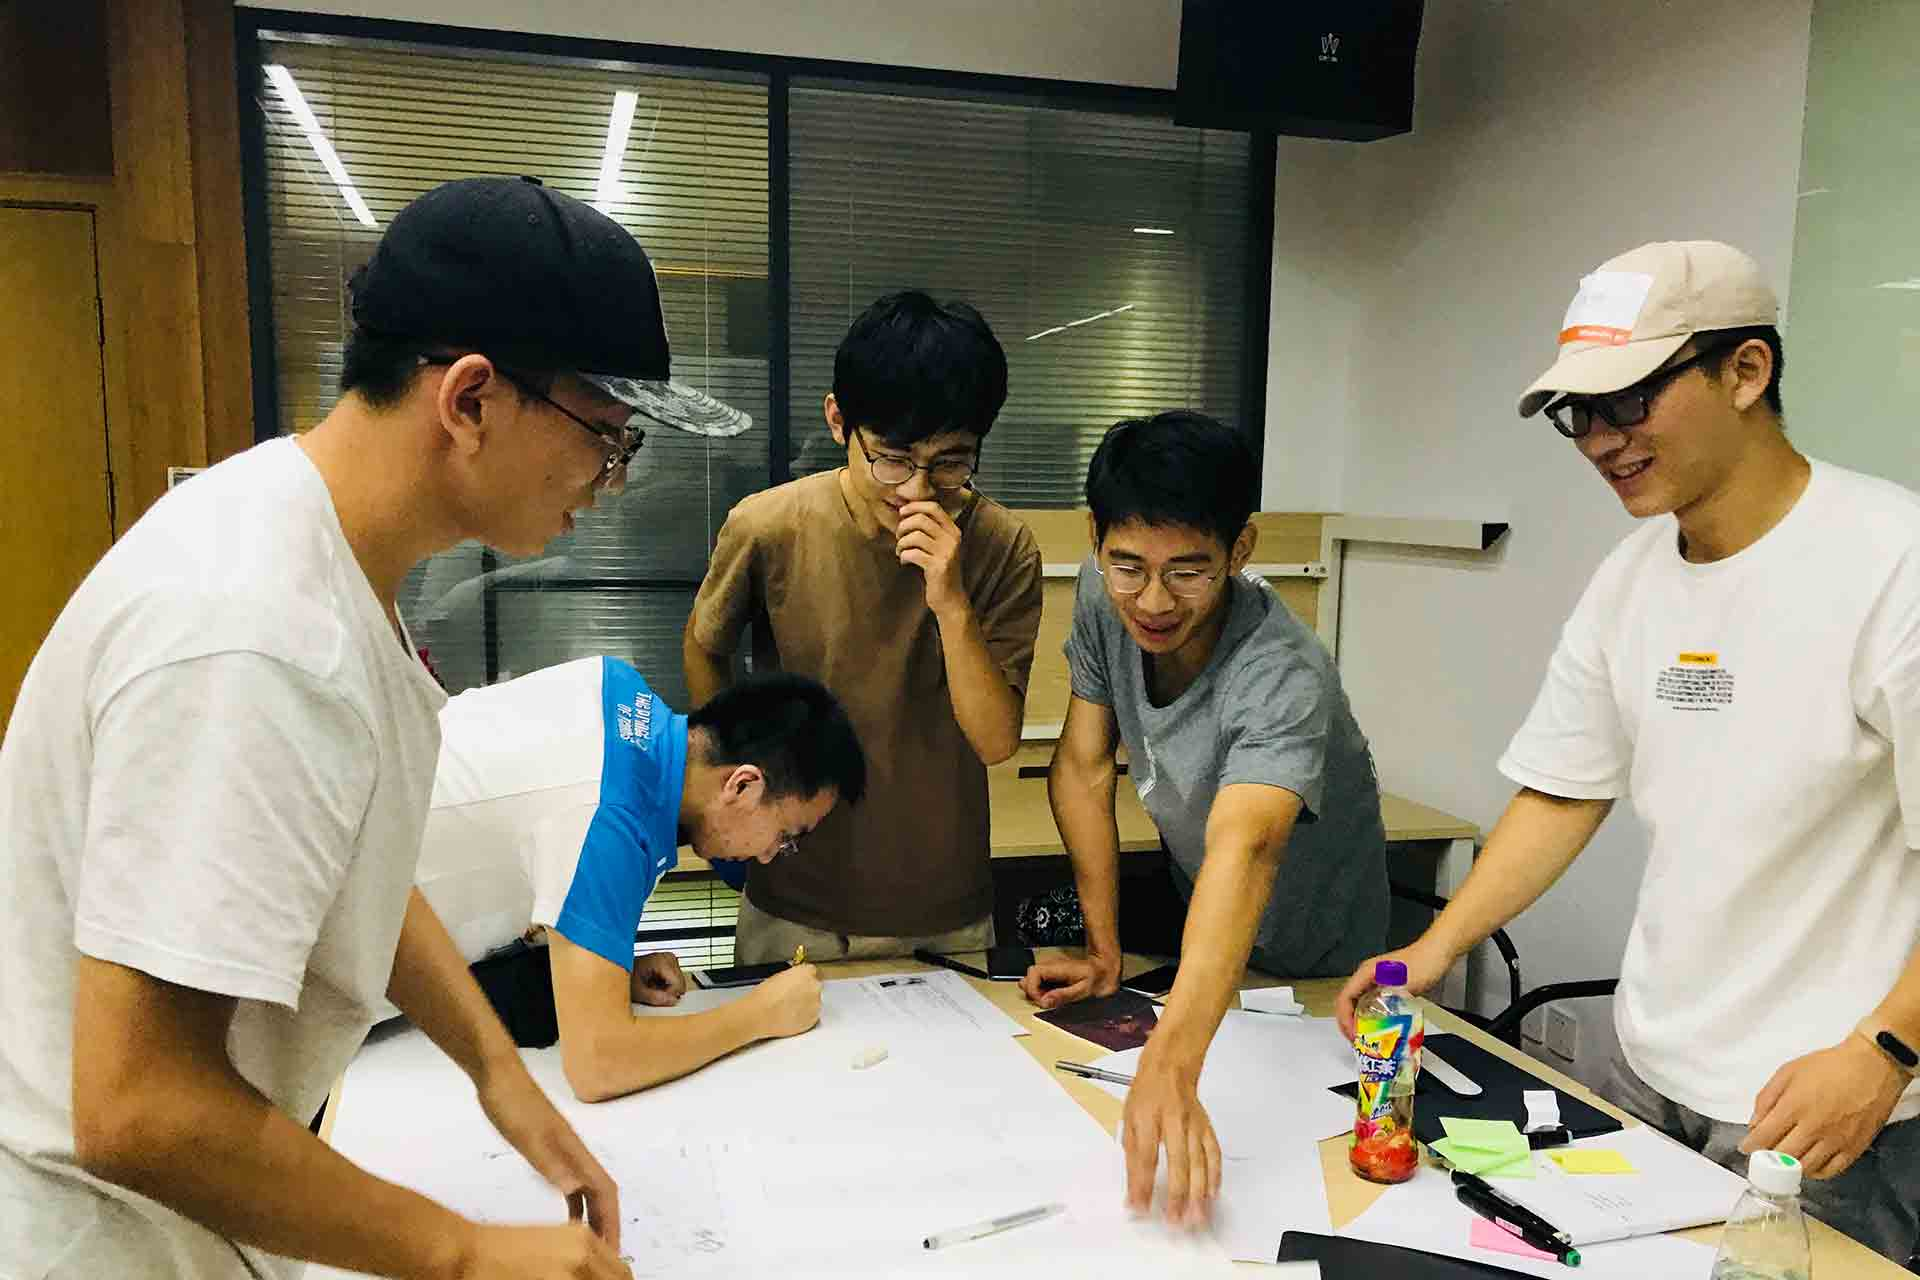
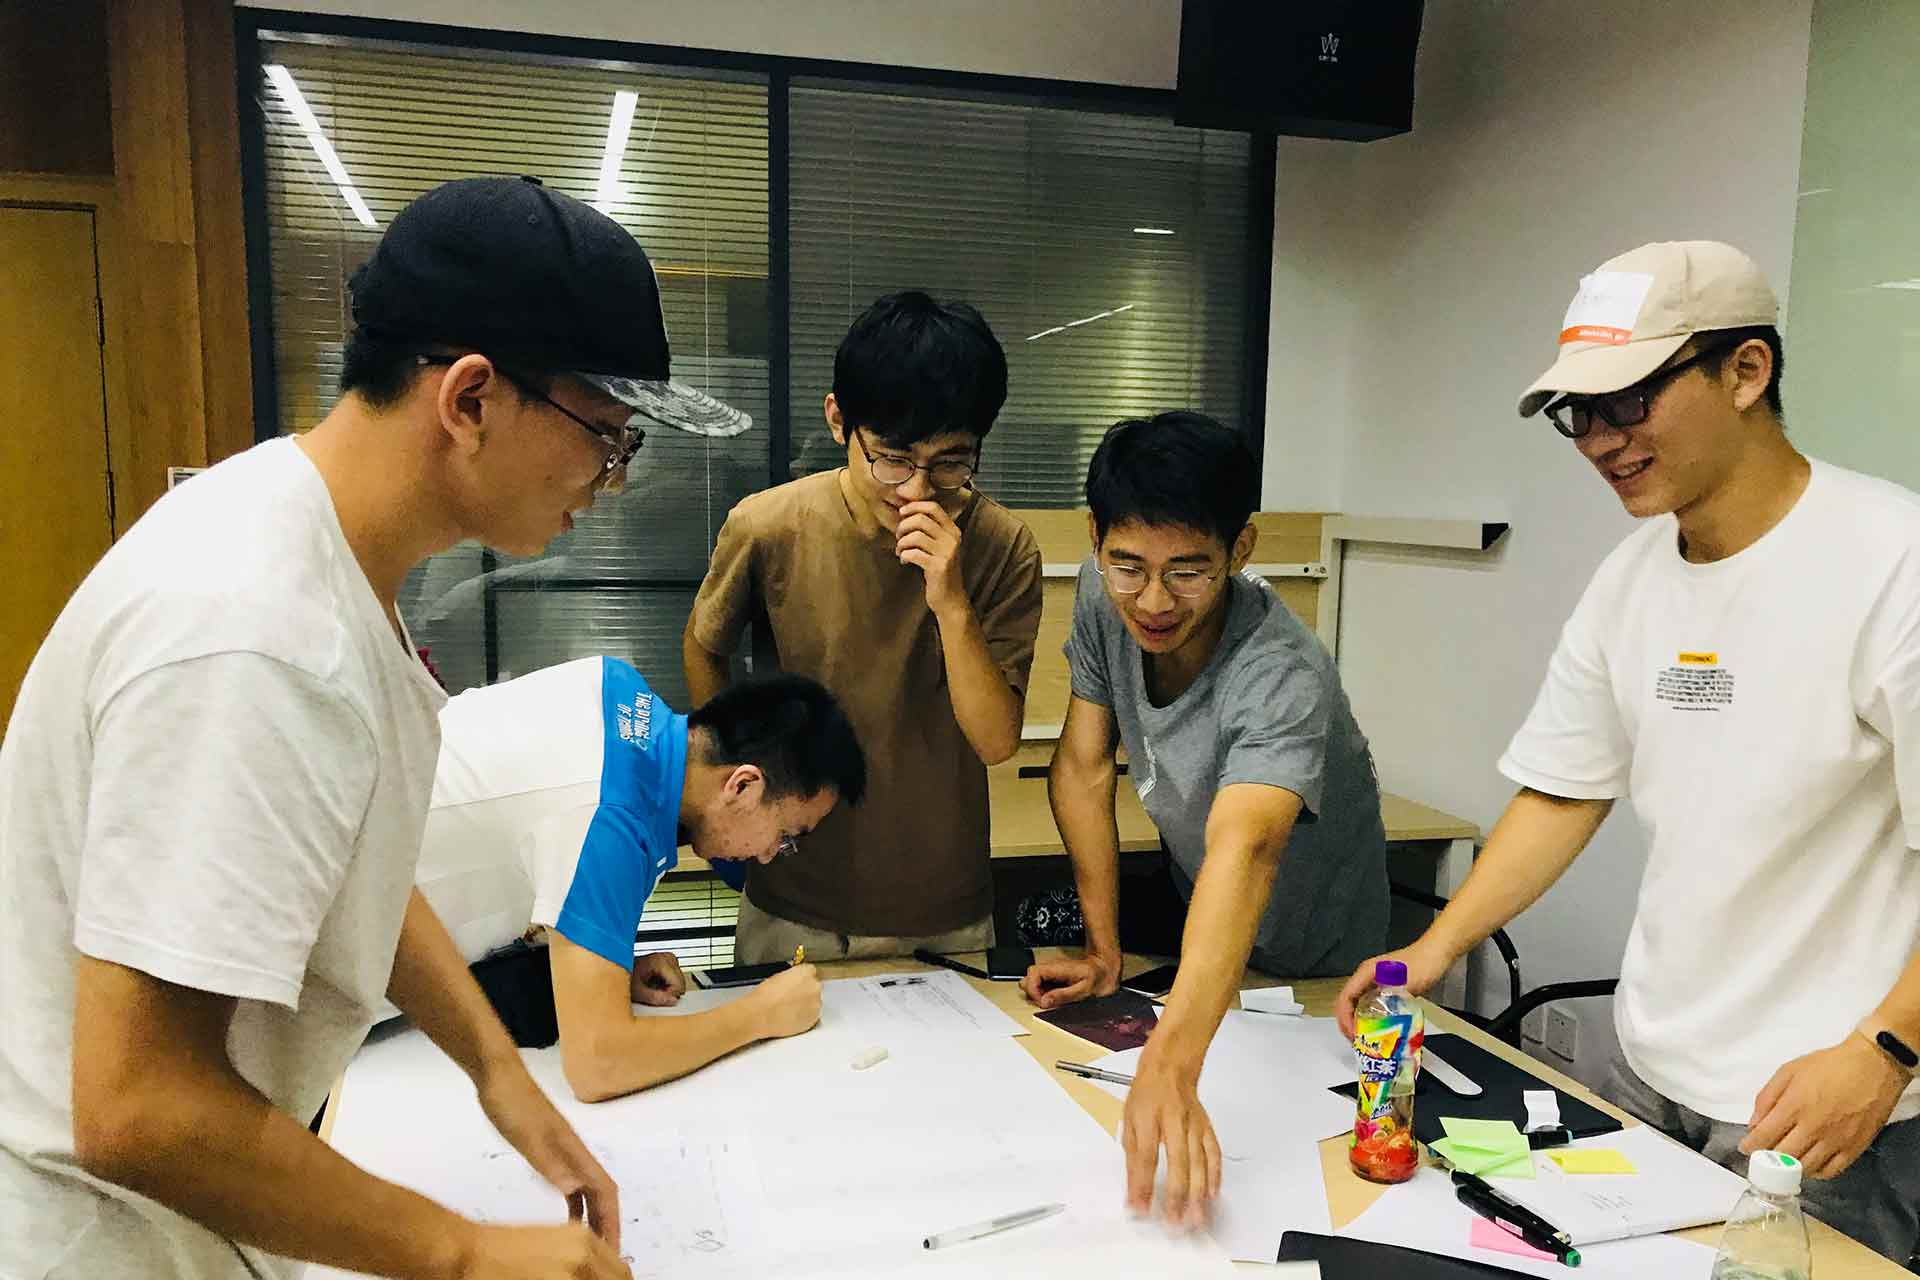
13
压缩了压缩图片 ，作品内容展示改回了跳出图片

Changed region(s): [[0.6875, 0.7812, 0.75, 0.875], [0.3125, 0.5312, 0.3438, 0.5938]]

diff --git a/index.html b/index.html
@@ -154,11 +154,11 @@
     <!-- ##### Top Catagory Area Start ##### -->
     <div class="top-catagory-area d-flex flex-wrap mb-50">
         <!-- Single Catagory -->
-        <div class="single-catagory bg-img d-flex align-items-center justify-content-center jarallax" style="background-image: url(img/bg-img/xiamen.jpeg);">
+        <div class="single-catagory bg-img d-flex align-items-center justify-content-center jarallax" style="background-image: url(img/bg-img/xiamen.jpg);">
             <a href="#">厦门</a>
         </div>
         <!-- Single Catagory -->
-        <div class="single-catagory bg-img d-flex align-items-center justify-content-center jarallax" style="background-image: url(img/bg-img/3.jpeg);">
+        <div class="single-catagory bg-img d-flex align-items-center justify-content-center jarallax" style="background-image: url(img/bg-img/shanghai.jpg);">
             <a href="#">上海</a>
         </div>
     </div>

diff --git a/portfolio.html b/portfolio.html
@@ -104,7 +104,7 @@
                     </div>
                 </div>
                 <div class="col-6 my_photo">
-                    <img src="img/本人肖像.png" alt="my photo">
+                    <img src="img/本人肖像.gif" alt="my photo">
                 </div>
             </div>
         </div>
